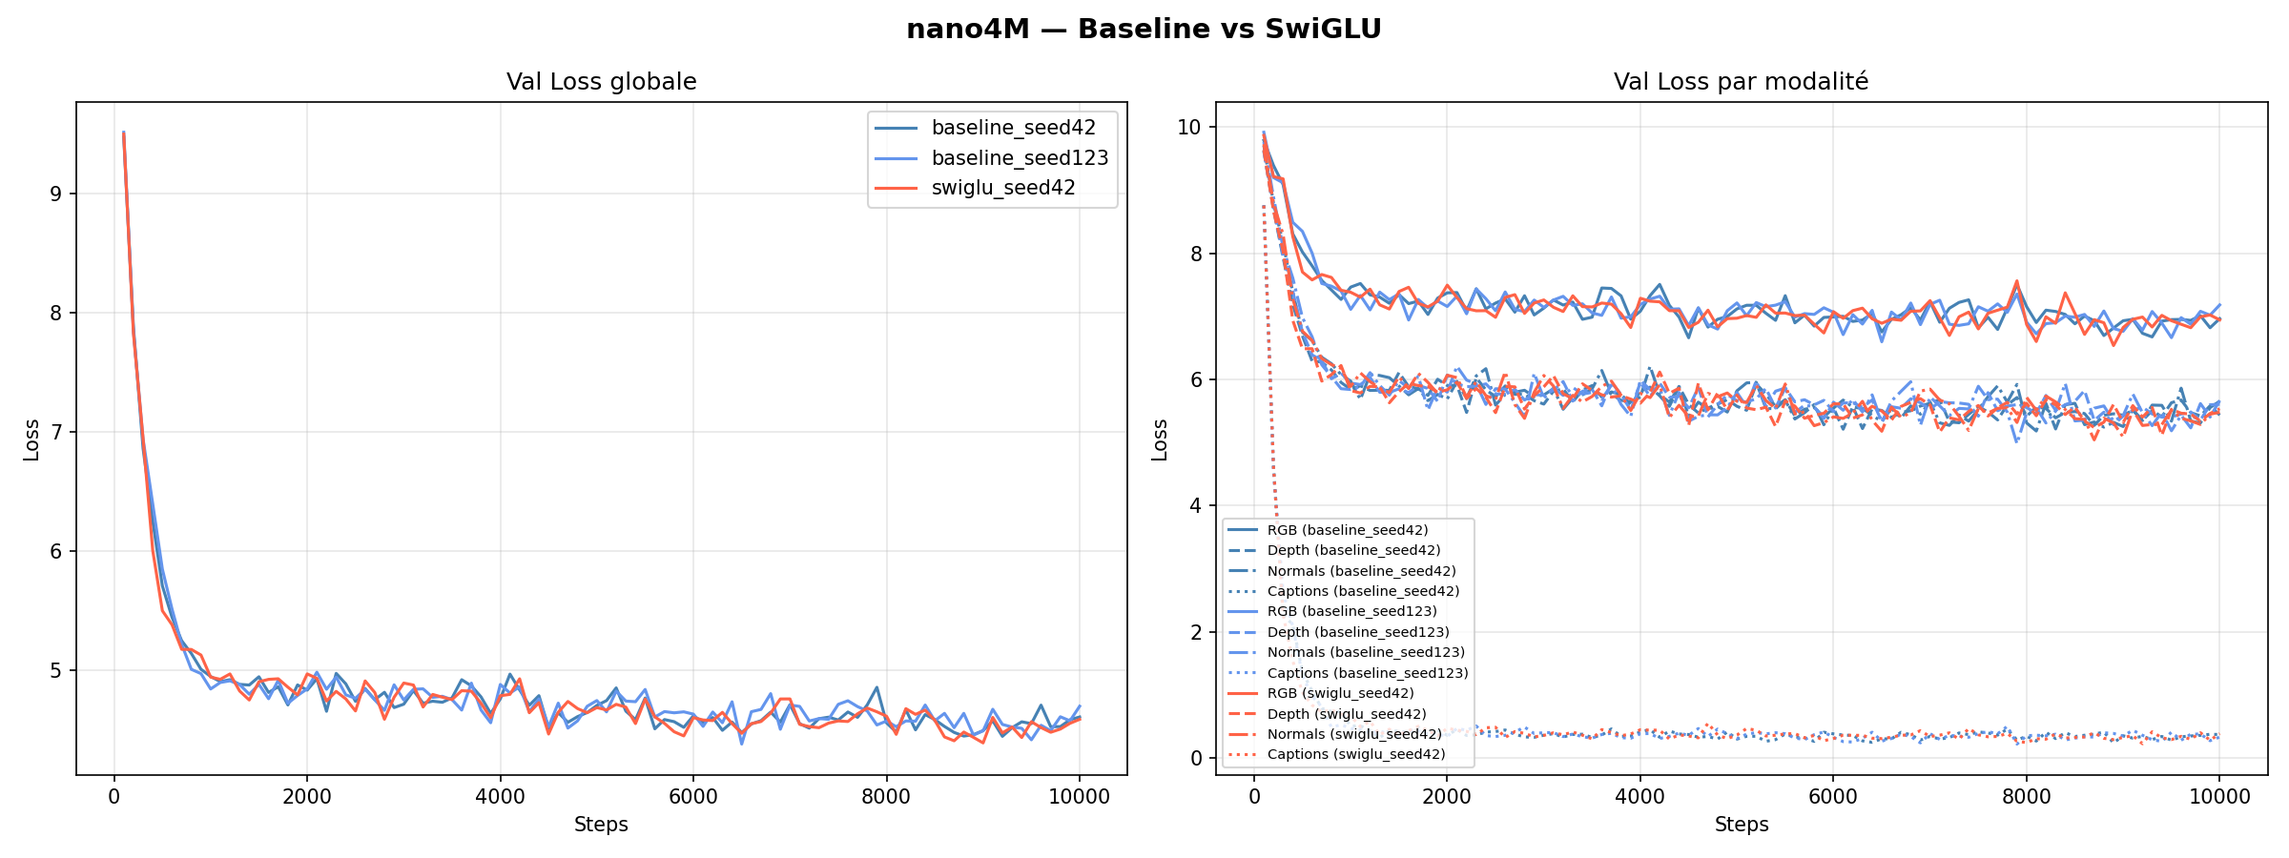
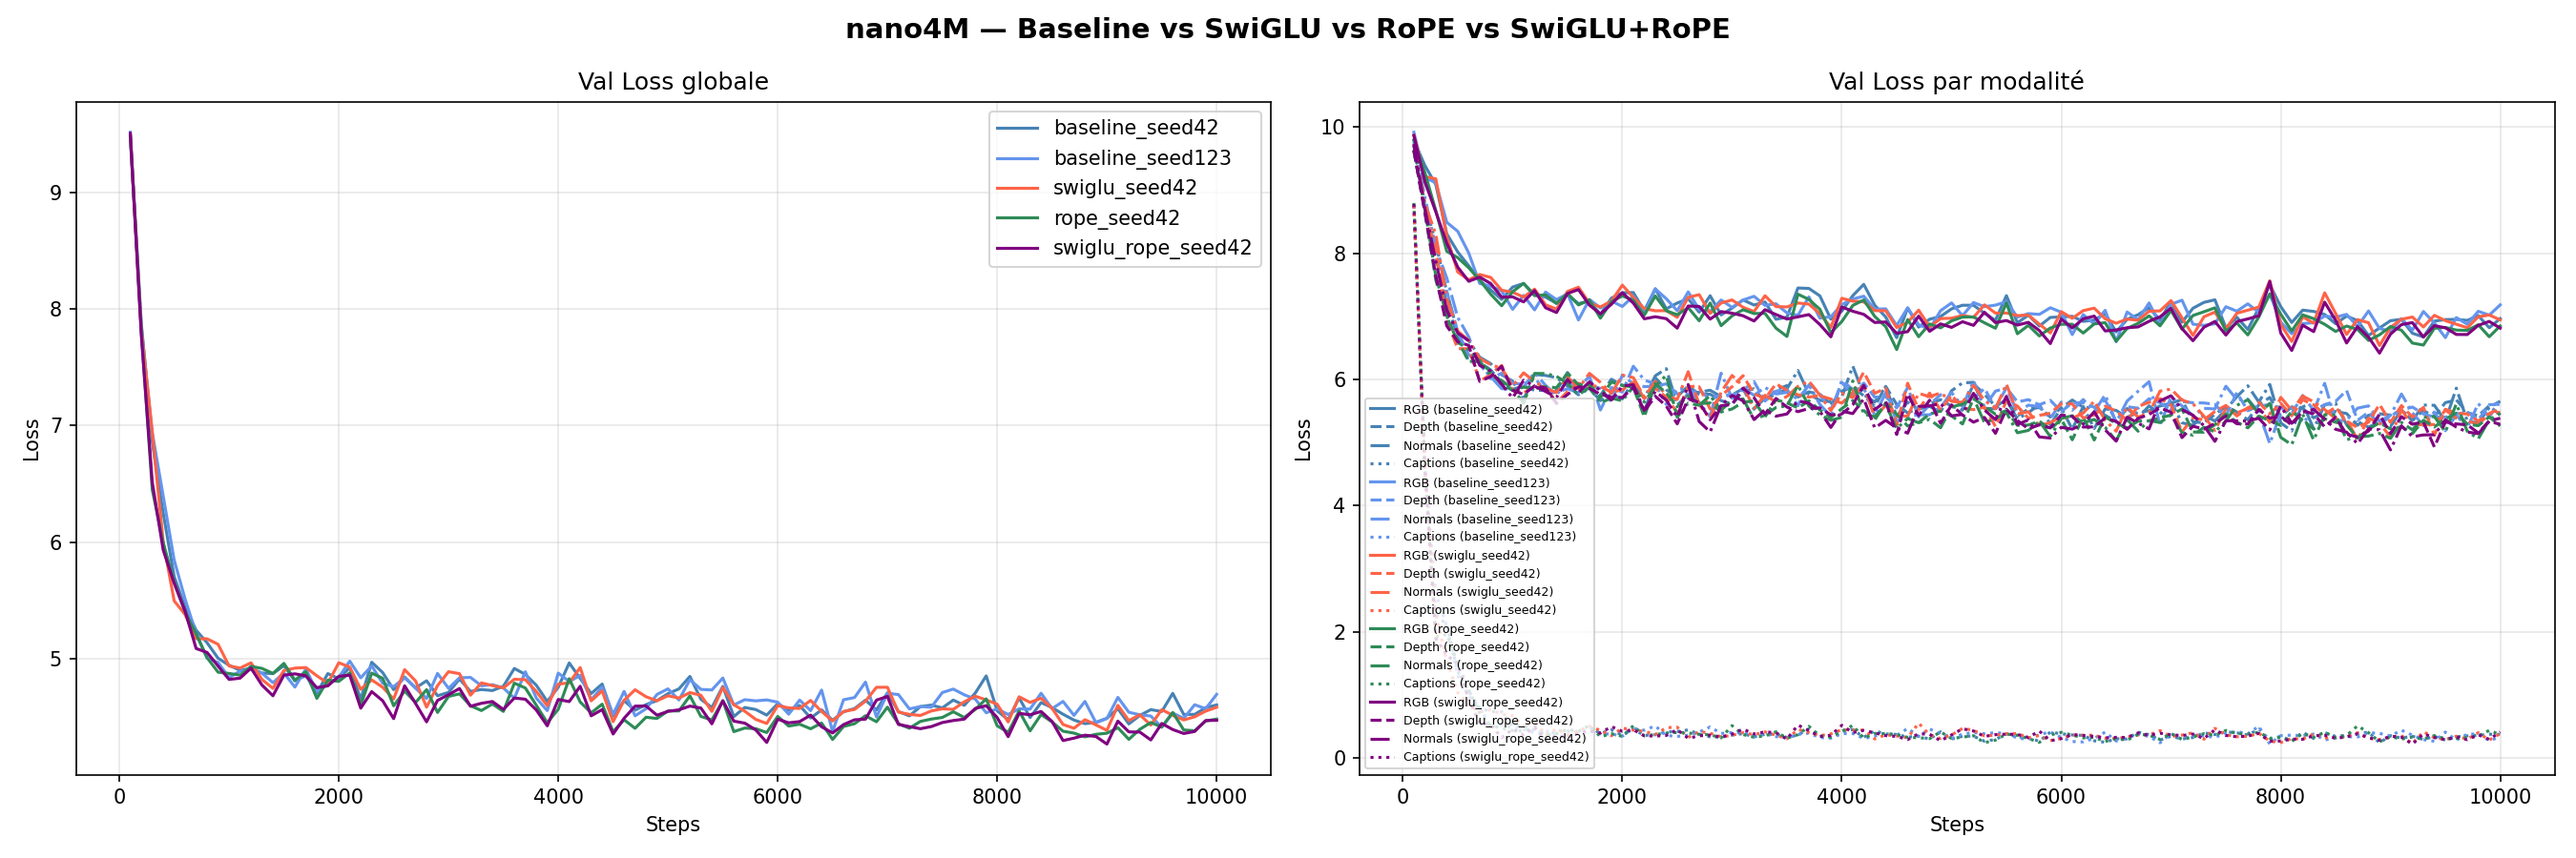
week 2 finish

diff --git a/plot_metrics.py b/plot_metrics.py
@@ -11,26 +11,30 @@ def load_metrics(path):
             steps.append(d["step"])
             train_loss.append(d["train_loss"])
             val_loss.append(d["val_loss"])
-            val_rgb.append(d["val_loss_tok_rgb@256"])
-            val_depth.append(d["val_loss_tok_depth@256"])
-            val_normal.append(d["val_loss_tok_normal@256"])
-            val_caption.append(d["val_loss_scene_desc"])
+            val_rgb.append(d.get("val_loss_tok_rgb@256") or d.get("val/tok_rgb@256"))
+            val_depth.append(d.get("val_loss_tok_depth@256") or d.get("val/tok_depth@256"))
+            val_normal.append(d.get("val_loss_tok_normal@256") or d.get("val/tok_normal@256"))
+            val_caption.append(d.get("val_loss_scene_desc") or d.get("val/scene_desc"))
     return steps, train_loss, val_loss, val_rgb, val_depth, val_normal, val_caption
 
 runs = {
-    "baseline_seed42":  "results/baseline_seed42_clean.jsonl",
-    "baseline_seed123": "results/baseline_seed123_metrics.jsonl",
-    "swiglu_seed42":    "results/swiglu_seed42_metrics.jsonl",
+    "baseline_seed42":    "results/baseline_seed42_clean.jsonl",
+    "baseline_seed123":   "results/baseline_seed123_metrics.jsonl",
+    "swiglu_seed42":      "results/swiglu_seed42_metrics.jsonl",
+    "rope_seed42":        "results/rope_seed42_metrics.jsonl",
+    "swiglu_rope_seed42": "results/swiglu_rope_seed42_metrics.jsonl",
 }
 
 colors = {
-    "baseline_seed42":  "steelblue",
-    "baseline_seed123": "cornflowerblue",
-    "swiglu_seed42":    "tomato",
+    "baseline_seed42":    "steelblue",
+    "baseline_seed123":   "cornflowerblue",
+    "swiglu_seed42":      "tomato",
+    "rope_seed42":        "seagreen",
+    "swiglu_rope_seed42": "purple",
 }
 
-fig, axes = plt.subplots(1, 2, figsize=(16, 6))
-fig.suptitle("nano4M — Baseline vs SwiGLU", fontsize=14, fontweight="bold")
+fig, axes = plt.subplots(1, 2, figsize=(18, 6))
+fig.suptitle("nano4M — Baseline vs SwiGLU vs RoPE vs SwiGLU+RoPE", fontsize=14, fontweight="bold")
 
 for run_name, path in runs.items():
     if not os.path.exists(path):
@@ -40,7 +44,6 @@ for run_name, path in runs.items():
     c = colors[run_name]
     axes[0].plot(steps, val_loss, label=run_name, color=c)
 
-# Plot 2 — Val loss par modalité pour tous les runs
 for run_name, path in runs.items():
     if not os.path.exists(path):
         continue
@@ -60,7 +63,7 @@ axes[0].grid(True, alpha=0.3)
 axes[1].set_title("Val Loss par modalité")
 axes[1].set_xlabel("Steps")
 axes[1].set_ylabel("Loss")
-axes[1].legend(fontsize=7)
+axes[1].legend(fontsize=6)
 axes[1].grid(True, alpha=0.3)
 
 plt.tight_layout()
